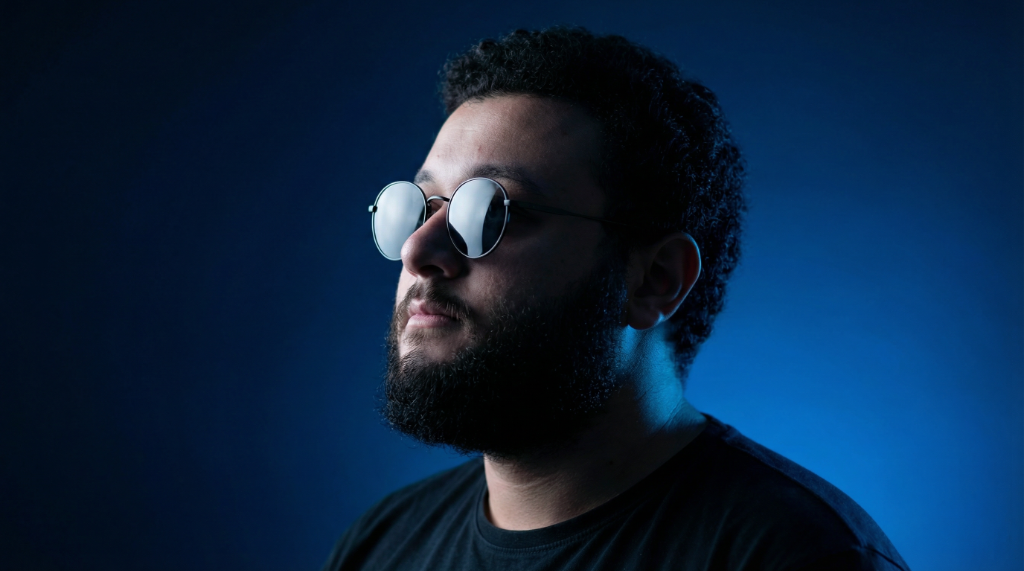
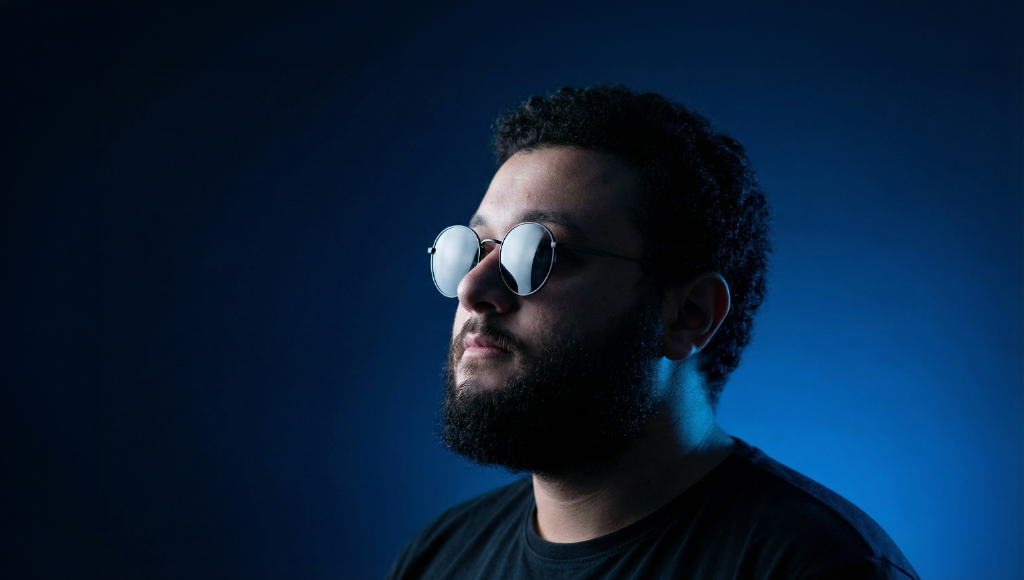
Add a KS's photo2

diff --git a/index.html b/index.html
@@ -184,7 +184,7 @@
           <span data-en="One More Number" data-ar="رقم أخير">One More Number</span>
           <div class="chap-label-line"></div>
         </div>
-        <h2 class="final-title" data-en='The next one is <em>yours.</em>' data-ar='الرقم القادم <em>ليك.</em>'>The next one is <em>yours.</em></h2>
+        <h2 class="final-title" data-en='The next one is yours.' data-ar='الرقم القادم ليك.'>The next one is yours.</h2>
         <button class="final-cta" onclick="enterSite()">
           <span data-en="Enter the work" data-ar="ادخل للأعمال">Enter the work</span>
           <svg viewBox="0 0 24 24" fill="none" stroke="currentColor" stroke-width="2"><path d="M5 12h14"/><path d="M12 5l7 7-7 7"/></svg>
@@ -719,23 +719,25 @@
       <div class="process-card top-row">
         <div class="process-icon-wrap">
           <svg viewBox="0 0 400 250" fill="none" stroke="currentColor">
-            <circle cx="200" cy="125" r="50" stroke="rgba(95,163,224,0.4)" stroke-width="2" fill="rgba(95,163,224,0.05)"/>
-            <circle cx="200" cy="125" r="70" stroke="rgba(95,163,224,0.1)" stroke-width="1"/>
-            <line x1="200" y1="40" x2="200" y2="210" stroke="rgba(95,163,224,0.2)" stroke-width="1"/>
-            <line x1="110" y1="125" x2="290" y2="125" stroke="rgba(95,163,224,0.2)" stroke-width="1"/>
-            <g transform="translate(180, 105) scale(1.6)" stroke="#7fa6e3" stroke-width="2" stroke-linecap="round" stroke-linejoin="round">
-              <path d="M20 21v-2a4 4 0 0 0-4-4H8a4 4 0 0 0-4 4v2"/>
-              <circle cx="12" cy="7" r="4" fill="#7fa6e3"/>
+            <g transform="translate(200, 125) scale(1.4) translate(-200, -125)">
+              <circle cx="200" cy="125" r="50" stroke="rgba(95,163,224,0.4)" stroke-width="2" fill="rgba(95,163,224,0.05)"/>
+              <circle cx="200" cy="125" r="70" stroke="rgba(95,163,224,0.1)" stroke-width="1"/>
+              <line x1="200" y1="40" x2="200" y2="210" stroke="rgba(95,163,224,0.2)" stroke-width="1"/>
+              <line x1="110" y1="125" x2="290" y2="125" stroke="rgba(95,163,224,0.2)" stroke-width="1"/>
+              <g transform="translate(180, 105) scale(1.6)" stroke="#7fa6e3" stroke-width="2" stroke-linecap="round" stroke-linejoin="round">
+                <path d="M20 21v-2a4 4 0 0 0-4-4H8a4 4 0 0 0-4 4v2"/>
+                <circle cx="12" cy="7" r="4" fill="#7fa6e3"/>
+              </g>
+              <path d="M120 70 L 150 90 M 120 180 L 150 160 M 280 70 L 250 90 M 280 180 L 250 160" stroke="rgba(255,255,255,0.15)" stroke-width="2"/>
+              <circle cx="110" cy="60" r="16" fill="rgba(255,255,255,0.05)" stroke="rgba(255,255,255,0.1)"/>
+              <g transform="translate(102, 52) scale(0.6)" stroke="#fff" stroke-width="2"><path d="M20 21v-2a4 4 0 0 0-4-4H8a4 4 0 0 0-4 4v2"/><circle cx="12" cy="7" r="4" fill="#fff"/></g>
+              <circle cx="110" cy="190" r="16" fill="rgba(255,255,255,0.05)" stroke="rgba(255,255,255,0.1)"/>
+              <g transform="translate(102, 182) scale(0.6)" stroke="#fff" stroke-width="2"><path d="M20 21v-2a4 4 0 0 0-4-4H8a4 4 0 0 0-4 4v2"/><circle cx="12" cy="7" r="4" fill="#fff"/></g>
+              <circle cx="290" cy="60" r="16" fill="rgba(255,255,255,0.05)" stroke="rgba(255,255,255,0.1)"/>
+              <g transform="translate(282, 52) scale(0.6)" stroke="#fff" stroke-width="2"><path d="M20 21v-2a4 4 0 0 0-4-4H8a4 4 0 0 0-4 4v2"/><circle cx="12" cy="7" r="4" fill="#fff"/></g>
+              <circle cx="290" cy="190" r="16" fill="rgba(255,255,255,0.05)" stroke="rgba(255,255,255,0.1)"/>
+              <g transform="translate(282, 182) scale(0.6)" stroke="#fff" stroke-width="2"><path d="M20 21v-2a4 4 0 0 0-4-4H8a4 4 0 0 0-4 4v2"/><circle cx="12" cy="7" r="4" fill="#fff"/></g>
             </g>
-            <path d="M120 70 L 150 90 M 120 180 L 150 160 M 280 70 L 250 90 M 280 180 L 250 160" stroke="rgba(255,255,255,0.15)" stroke-width="2"/>
-            <circle cx="110" cy="60" r="16" fill="rgba(255,255,255,0.05)" stroke="rgba(255,255,255,0.1)"/>
-            <g transform="translate(102, 52) scale(0.6)" stroke="#fff" stroke-width="2"><path d="M20 21v-2a4 4 0 0 0-4-4H8a4 4 0 0 0-4 4v2"/><circle cx="12" cy="7" r="4" fill="#fff"/></g>
-            <circle cx="110" cy="190" r="16" fill="rgba(255,255,255,0.05)" stroke="rgba(255,255,255,0.1)"/>
-            <g transform="translate(102, 182) scale(0.6)" stroke="#fff" stroke-width="2"><path d="M20 21v-2a4 4 0 0 0-4-4H8a4 4 0 0 0-4 4v2"/><circle cx="12" cy="7" r="4" fill="#fff"/></g>
-            <circle cx="290" cy="60" r="16" fill="rgba(255,255,255,0.05)" stroke="rgba(255,255,255,0.1)"/>
-            <g transform="translate(282, 52) scale(0.6)" stroke="#fff" stroke-width="2"><path d="M20 21v-2a4 4 0 0 0-4-4H8a4 4 0 0 0-4 4v2"/><circle cx="12" cy="7" r="4" fill="#fff"/></g>
-            <circle cx="290" cy="190" r="16" fill="rgba(255,255,255,0.05)" stroke="rgba(255,255,255,0.1)"/>
-            <g transform="translate(282, 182) scale(0.6)" stroke="#fff" stroke-width="2"><path d="M20 21v-2a4 4 0 0 0-4-4H8a4 4 0 0 0-4 4v2"/><circle cx="12" cy="7" r="4" fill="#fff"/></g>
           </svg>
         </div>
         <h3 class="process-card-title" data-en="Getting brief" data-ar="استلام الملخص">Getting brief</h3>
@@ -747,16 +749,17 @@
           <svg viewBox="0 0 400 250" fill="none" stroke="currentColor">
             <rect x="160" y="85" width="80" height="80" rx="20" stroke="rgba(95,163,224,0.4)" stroke-width="3" fill="rgba(95,163,224,0.05)"/>
             <rect x="150" y="75" width="100" height="100" rx="26" stroke="rgba(95,163,224,0.1)" stroke-width="2"/>
-            <path d="M185 110 A 15 15 0 0 1 215 110 A 15 15 0 0 1 215 140 A 15 15 0 0 1 185 140 A 15 15 0 0 1 185 110 Z" fill="#7fa6e3" stroke="none"/>
+            <path d="M185 110 A 15 15 0 0 1 215 110 A 15 15 0 0 1 215 140 A 15 15 0 0 1 185 140 A 15 15 0 0 1 185 110 Z" fill="#7fa6e3" stroke="none" transform="translate(200, 125) scale(4) translate(-200, -125)"/>
             <path d="M200 125 A 5 5 0 0 1 200 125 Z" fill="#fff" stroke="none"/> 
-            <circle cx="110" cy="125" r="14" fill="rgba(255,255,255,0.05)" stroke="rgba(255,255,255,0.1)"/>
-            <text x="110" y="130" fill="#fff" font-size="12" font-family="sans-serif" text-anchor="middle" stroke="none">X</text>
-            <circle cx="70" cy="125" r="14" fill="rgba(255,255,255,0.05)" stroke="rgba(255,255,255,0.1)"/>
-            <text x="70" y="130" fill="#fff" font-size="12" font-family="sans-serif" text-anchor="middle" stroke="none">f</text>
-            <circle cx="290" cy="125" r="14" fill="rgba(255,255,255,0.05)" stroke="rgba(255,255,255,0.1)"/>
-            <text x="290" y="130" fill="#fff" font-size="12" font-family="sans-serif" text-anchor="middle" stroke="none">in</text>
-            <circle cx="330" cy="125" r="14" fill="rgba(255,255,255,0.05)" stroke="rgba(255,255,255,0.1)"/>
-            <path d="M326 121 L 334 125 L 326 129 Z" fill="#fff" stroke="none"/>
+            <circle cx="100" cy="125" r="30" fill="rgba(255,255,255,0.05)" stroke="rgba(255,255,255,0.1)"/>
+            <text x="100" y="134" fill="#fff" font-size="24" font-family="sans-serif" text-anchor="middle" stroke="none">X</text>
+            <circle cx="35" cy="125" r="30" fill="rgba(255,255,255,0.05)" stroke="rgba(255,255,255,0.1)"/>
+            <text x="35" y="134" fill="#fff" font-size="24" font-family="sans-serif" text-anchor="middle" stroke="none">f</text>
+            <circle cx="300" cy="125" r="30" fill="rgba(255,255,255,0.05)" stroke="rgba(255,255,255,0.1)"/>
+            <text x="300" y="134" fill="#fff" font-size="24" font-family="sans-serif" text-anchor="middle" stroke="none">in</text>
+            <circle cx="365" cy="125" r="30" fill="rgba(255,255,255,0.05)" stroke="rgba(255,255,255,0.1)"/>
+            <path d="M356 113 L 376 125 L 356 137 Z" fill="#fff" stroke="none"/>
+
           </svg>
         </div>
         <h3 class="process-card-title" data-en="Meeting" data-ar="الاجتماع">Meeting</h3>
@@ -767,19 +770,21 @@
       <div class="process-card bottom-row">
         <div class="process-icon-wrap">
           <svg viewBox="0 0 400 250" fill="none" stroke="currentColor">
-            <rect x="80" y="50" width="240" height="130" rx="12" stroke="rgba(95,163,224,0.2)" stroke-width="2" fill="rgba(95,163,224,0.05)"/>
-            <line x1="200" y1="180" x2="200" y2="200" stroke="rgba(255,255,255,0.1)" stroke-width="20"/>
-            <line x1="160" y1="200" x2="240" y2="200" stroke="rgba(255,255,255,0.2)" stroke-width="4"/>
-            <circle cx="100" cy="70" r="8" fill="rgba(255,255,255,0.1)"/>
-            <circle cx="100" cy="68" r="3" fill="#7fa6e3" stroke="none"/>
-            <path d="M96 74 Q 100 70 104 74" stroke="#7fa6e3" stroke-width="1.5" stroke-linecap="round"/>
-            <rect x="130" y="110" width="20" height="40" rx="3" fill="rgba(255,255,255,0.1)"/>
-            <rect x="165" y="90" width="20" height="60" rx="3" fill="rgba(255,255,255,0.2)"/>
-            <rect x="200" y="60" width="20" height="90" rx="3" fill="#7fa6e3"/>
-            <rect x="235" y="100" width="20" height="50" rx="3" fill="rgba(255,255,255,0.15)"/>
-            <rect x="30" y="130" width="10" height="20" rx="2" fill="rgba(255,255,255,0.03)"/>
-            <rect x="45" y="120" width="10" height="30" rx="2" fill="rgba(255,255,255,0.03)"/>
-            <rect x="345" y="110" width="10" height="40" rx="2" fill="rgba(255,255,255,0.03)"/>
+            <g transform="translate(200, 125) scale(1.4) translate(-200, -125)">
+              <rect x="80" y="50" width="240" height="130" rx="12" stroke="rgba(95,163,224,0.2)" stroke-width="2" fill="rgba(95,163,224,0.05)"/>
+              <line x1="200" y1="180" x2="200" y2="200" stroke="rgba(255,255,255,0.1)" stroke-width="20"/>
+              <line x1="160" y1="200" x2="240" y2="200" stroke="rgba(255,255,255,0.2)" stroke-width="4"/>
+              <circle cx="100" cy="70" r="8" fill="rgba(255,255,255,0.1)"/>
+              <circle cx="100" cy="68" r="3" fill="#7fa6e3" stroke="none"/>
+              <path d="M96 74 Q 100 70 104 74" stroke="#7fa6e3" stroke-width="1.5" stroke-linecap="round"/>
+              <rect x="130" y="110" width="20" height="40" rx="3" fill="rgba(255,255,255,0.1)"/>
+              <rect x="165" y="90" width="20" height="60" rx="3" fill="rgba(255,255,255,0.2)"/>
+              <rect x="200" y="60" width="20" height="90" rx="3" fill="#7fa6e3"/>
+              <rect x="235" y="100" width="20" height="50" rx="3" fill="rgba(255,255,255,0.15)"/>
+              <rect x="30" y="130" width="10" height="20" rx="2" fill="rgba(255,255,255,0.03)"/>
+              <rect x="45" y="120" width="10" height="30" rx="2" fill="rgba(255,255,255,0.03)"/>
+              <rect x="345" y="110" width="10" height="40" rx="2" fill="rgba(255,255,255,0.03)"/>
+            </g>
           </svg>
         </div>
         <h3 class="process-card-title" data-en="Plan & make visuals" data-ar="التخطيط وتجهيز المرئيات">Plan & make visuals</h3>
@@ -789,22 +794,24 @@
       <div class="process-card bottom-row">
         <div class="process-icon-wrap">
           <svg viewBox="0 0 400 250" fill="none" stroke="currentColor">
-            <rect x="150" y="75" width="100" height="100" rx="24" fill="url(#gradShield)" stroke="rgba(95,163,224,0.1)" stroke-width="2"/>
-            <path d="M200 100 L 175 110 V 135 C 175 155 190 165 200 170 C 210 165 225 155 225 135 V 110 Z" fill="#7fa6e3" stroke="rgba(255,255,255,0.5)" stroke-width="2"/>
-            <path d="M190 135 L 197 142 L 210 125" stroke="#fff" stroke-width="3" stroke-linecap="round" stroke-linejoin="round"/>
-            <path d="M130 110 L 110 110 L 100 100 L 80 100" stroke="rgba(255,255,255,0.2)" stroke-width="2"/>
-            <path d="M130 140 L 110 140 L 100 150 L 80 150" stroke="rgba(255,255,255,0.2)" stroke-width="2"/>
-            <path d="M270 110 L 290 110 L 300 100 L 320 100" stroke="rgba(255,255,255,0.2)" stroke-width="2"/>
-            <path d="M270 140 L 290 140 L 300 150 L 320 150" stroke="rgba(255,255,255,0.2)" stroke-width="2"/>
-            <rect x="160" y="190" width="20" height="10" rx="2" fill="rgba(255,255,255,0.05)"/>
-            <rect x="190" y="200" width="20" height="10" rx="2" fill="rgba(255,255,255,0.05)"/>
-            <rect x="220" y="190" width="20" height="10" rx="2" fill="rgba(255,255,255,0.05)"/>
-            <defs>
-              <radialGradient id="gradShield" cx="50%" cy="50%" r="50%">
-                <stop offset="0%" stop-color="rgba(95,163,224,0.2)"/>
-                <stop offset="100%" stop-color="transparent"/>
-              </radialGradient>
-            </defs>
+            <g transform="translate(200, 125) scale(1.4) translate(-200, -125)">
+              <rect x="150" y="75" width="100" height="100" rx="24" fill="url(#gradShield)" stroke="rgba(95,163,224,0.1)" stroke-width="2"/>
+              <path d="M200 100 L 175 110 V 135 C 175 155 190 165 200 170 C 210 165 225 155 225 135 V 110 Z" fill="#7fa6e3" stroke="rgba(255,255,255,0.5)" stroke-width="2"/>
+              <path d="M190 135 L 197 142 L 210 125" stroke="#fff" stroke-width="3" stroke-linecap="round" stroke-linejoin="round"/>
+              <path d="M130 110 L 110 110 L 100 100 L 80 100" stroke="rgba(255,255,255,0.2)" stroke-width="2"/>
+              <path d="M130 140 L 110 140 L 100 150 L 80 150" stroke="rgba(255,255,255,0.2)" stroke-width="2"/>
+              <path d="M270 110 L 290 110 L 300 100 L 320 100" stroke="rgba(255,255,255,0.2)" stroke-width="2"/>
+              <path d="M270 140 L 290 140 L 300 150 L 320 150" stroke="rgba(255,255,255,0.2)" stroke-width="2"/>
+              <rect x="160" y="190" width="20" height="10" rx="2" fill="rgba(255,255,255,0.05)"/>
+              <rect x="190" y="200" width="20" height="10" rx="2" fill="rgba(255,255,255,0.05)"/>
+              <rect x="220" y="190" width="20" height="10" rx="2" fill="rgba(255,255,255,0.05)"/>
+              <defs>
+                <radialGradient id="gradShield" cx="50%" cy="50%" r="50%">
+                  <stop offset="0%" stop-color="rgba(95,163,224,0.2)"/>
+                  <stop offset="100%" stop-color="transparent"/>
+                </radialGradient>
+              </defs>
+            </g>
           </svg>
         </div>
         <h3 class="process-card-title" data-en="Deliver full plan & Videos" data-ar="تسليم الخطة والفيديوهات">Deliver full plan & Videos</h3>
@@ -814,19 +821,21 @@
       <div class="process-card bottom-row">
         <div class="process-icon-wrap">
           <svg viewBox="0 0 400 250" fill="none" stroke="currentColor">
-            <rect x="30" y="20" width="340" height="60" rx="12" stroke="rgba(255,255,255,0.05)" stroke-width="1" fill="rgba(255,255,255,0.02)"/>
-            <text x="50" y="42" fill="rgba(255,255,255,0.8)" font-size="14" font-weight="bold" font-family="sans-serif" stroke="none">Stealth Group</text>
-            <text x="50" y="62" fill="rgba(255,255,255,0.4)" font-size="11" font-family="sans-serif" stroke="none">5 Whales Joined $TOKEN Group</text>
-            <text x="320" y="42" fill="rgba(255,255,255,0.3)" font-size="11" font-family="sans-serif" stroke="none">2min ago</text>
+            <g transform="translate(200, 125) scale(1.15) translate(-200, -125)">
+              <rect x="30" y="20" width="340" height="60" rx="12" stroke="rgba(255,255,255,0.05)" stroke-width="1" fill="rgba(255,255,255,0.02)"/>
+              <text x="50" y="42" fill="rgba(255,255,255,0.8)" font-size="14" font-weight="bold" font-family="sans-serif" stroke="none">Stealth Group</text>
+              <text x="50" y="62" fill="rgba(255,255,255,0.4)" font-size="11" font-family="sans-serif" stroke="none">5 Whales Joined $TOKEN Group</text>
+              <text x="320" y="42" fill="rgba(255,255,255,0.3)" font-size="11" font-family="sans-serif" stroke="none">2min ago</text>
+              
+              <rect x="20" y="90" width="360" height="65" rx="14" fill="rgba(95,163,224,0.15)" stroke="rgba(95,163,224,0.3)" stroke-width="1"/>
+              <text x="40" y="115" fill="#fff" font-size="15" font-weight="bold" font-family="sans-serif" stroke="none">X Activity</text>
+              <text x="40" y="137" fill="rgba(255,255,255,0.7)" font-size="12" font-family="sans-serif" stroke="none">Influencer Started Following $COIN</text>
+              <text x="320" y="115" fill="rgba(95,163,224,0.8)" font-size="11" font-family="sans-serif" stroke="none">5min ago</text>
             
-            <rect x="20" y="90" width="360" height="65" rx="14" fill="rgba(95,163,224,0.15)" stroke="rgba(95,163,224,0.3)" stroke-width="1"/>
-            <text x="40" y="115" fill="#fff" font-size="15" font-weight="bold" font-family="sans-serif" stroke="none">X Activity</text>
-            <text x="40" y="137" fill="rgba(255,255,255,0.7)" font-size="12" font-family="sans-serif" stroke="none">Influencer Started Following $COIN</text>
-            <text x="320" y="115" fill="rgba(95,163,224,0.8)" font-size="11" font-family="sans-serif" stroke="none">5min ago</text>
-          
-            <rect x="30" y="165" width="340" height="60" rx="12" stroke="rgba(255,255,255,0.05)" stroke-width="1" fill="rgba(255,255,255,0.02)"/>
-            <text x="50" y="187" fill="rgba(255,255,255,0.8)" font-size="14" font-weight="bold" font-family="sans-serif" stroke="none">Behavior</text>
-            <text x="50" y="207" fill="rgba(255,255,255,0.4)" font-size="11" font-family="sans-serif" stroke="none">Pattern Detected: Pre-Pump Activity</text>
+              <rect x="30" y="165" width="340" height="60" rx="12" stroke="rgba(255,255,255,0.05)" stroke-width="1" fill="rgba(255,255,255,0.02)"/>
+              <text x="50" y="187" fill="rgba(255,255,255,0.8)" font-size="14" font-weight="bold" font-family="sans-serif" stroke="none">Behavior</text>
+              <text x="50" y="207" fill="rgba(255,255,255,0.4)" font-size="11" font-family="sans-serif" stroke="none">Pattern Detected: Pre-Pump Activity</text>
+            </g>
             <text x="320" y="187" fill="rgba(255,255,255,0.3)" font-size="11" font-family="sans-serif" stroke="none">8min ago</text>
           </svg>
         </div>

diff --git a/style.css b/style.css
@@ -1980,7 +1980,7 @@ html[dir="rtl"] .nav-cta svg {
   position: absolute;
   top: 0;
   right: 0;
-  width: 75%;
+  width: 78%;
   height: 100%;
   background-image: url('hero-portrait.png');
   background-size: cover;
@@ -7481,7 +7481,7 @@ body,
 #hero {
   min-height: auto !important;
   padding-top: 20vh !important;
-  padding-bottom: 80px !important;
+  padding-bottom: 40px !important;
 }
 
 #home-brands {